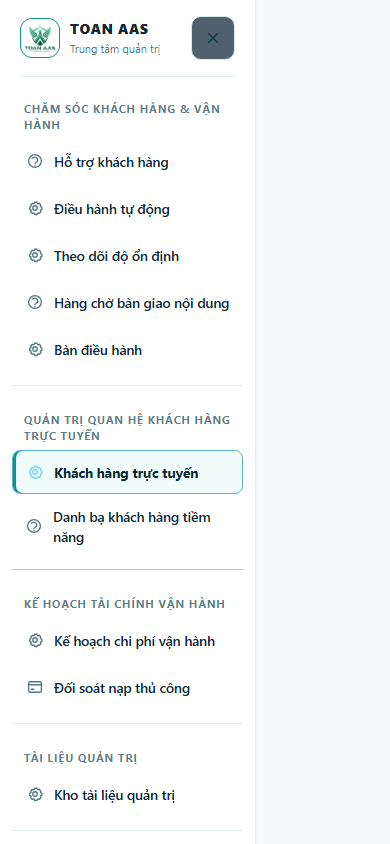
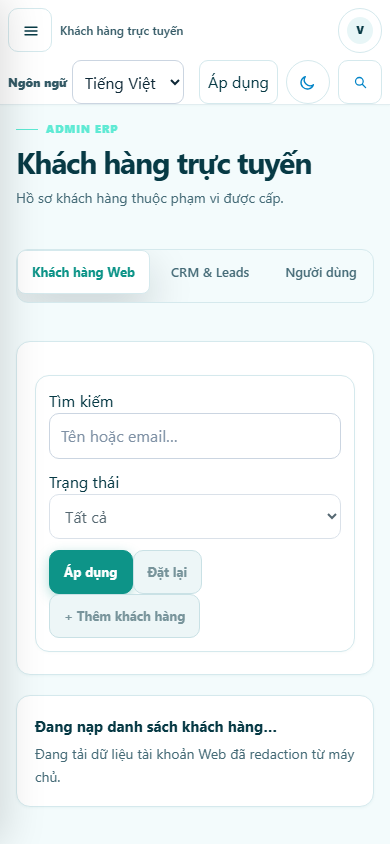
fix(web): correct admin mobile drawer off-canvas layout and screenshot evidence

diff --git a/static/portal/portal-theme.css b/static/portal/portal-theme.css
@@ -20271,6 +20271,51 @@ html:not([data-portal-theme="dark"]) .portal-auth-page--admin .portal-auth-card 
   background: #0f766e !important;
 }
 
+.portal-shell[data-portal-app-kind="admin"]:not([data-portal-theme="dark"]) .portal-button--primary {
+  background: #0d9488 !important;
+  color: #ffffff !important;
+  border: 1px solid #0d9488 !important;
+}
+
+.portal-shell[data-portal-app-kind="admin"]:not([data-portal-theme="dark"]) .portal-button--primary:hover {
+  background: #0f766e !important;
+  border-color: #0f766e !important;
+}
+
+@media (max-width: 980px) {
+  .portal-shell[data-portal-app-kind="admin"] {
+    display: block !important;
+  }
+
+  .portal-shell[data-portal-app-kind="admin"] .portal-sidebar {
+    position: fixed !important;
+    z-index: 100 !important;
+    top: 0 !important;
+    left: 0 !important;
+    width: min(290px, calc(100vw - 46px)) !important;
+    height: 100vh !important;
+    height: 100dvh !important;
+    padding-top: calc(20px + var(--portal-safe-top)) !important;
+    padding-bottom: calc(16px + var(--portal-safe-bottom)) !important;
+    transform: translateX(-105%) !important;
+    transition: transform .2s ease !important;
+    box-shadow: 18px 0 40px rgba(0, 0, 0, .15) !important;
+  }
+
+  .portal-shell[data-portal-app-kind="admin"] .portal-sidebar.is-open {
+    transform: translateX(0) !important;
+  }
+
+  .portal-shell[data-portal-app-kind="admin"] .portal-workspace {
+    min-width: 0 !important;
+    width: 100% !important;
+  }
+
+  .portal-shell[data-portal-app-kind="admin"] .portal-header {
+    width: 100% !important;
+  }
+}
+
 .portal-shell[data-portal-app-kind="admin"] .portal-nav-group--flat {
   display: grid;
   gap: 2px;

diff --git a/tests/test_p0_admin_ui_visual_reset_light_teal_contracts.py b/tests/test_p0_admin_ui_visual_reset_light_teal_contracts.py
@@ -1,9 +1,10 @@
 """Contract tests for Admin UI Visual Reset to Light Modern Teal/Emerald ERP.
 
-TASK: P0.WEB.ADMIN.UI.VISUAL.RESET.LIGHT.TEAL.LIVE.ACCEPTANCE
+TASK: P0.WEB.ADMIN.UI.PR454.VISUAL.EVIDENCE.CORRECTION.GATE
 PROGRAM: P0.WEB.ERP.PRODUCTION_COMPLETION
 """
 
+import json
 from pathlib import Path
 import re
 import pytest
@@ -14,6 +15,8 @@ PORTAL_THEME_CSS = (ROOT / "static" / "portal" / "portal-theme.css").read_text(e
 PORTAL_CSS = (ROOT / "static" / "portal" / "portal.css").read_text(encoding="utf-8")
 PORTAL_JS = (ROOT / "static" / "portal" / "portal.js").read_text(encoding="utf-8")
 SERVICE_WORKER_JS = (ROOT / "static" / "portal" / "service-worker.js").read_text(encoding="utf-8")
+AFTER_MANIFEST_PATH = ROOT / "reports" / "visual_reset" / "after" / "capture_manifest.json"
+COMPUTED_COLORS_PATH = ROOT / "reports" / "visual_reset" / "after" / "computed_colors.json"
 
 
 def test_admin_ui_theme_storage_key_isolation() -> None:
@@ -88,3 +91,52 @@ def test_service_worker_skip_waiting_and_clients_claim() -> None:
     """Service worker must skip waiting and claim clients to avoid stale caches."""
     assert "self.skipWaiting()" in SERVICE_WORKER_JS
     assert "self.clients.claim()" in SERVICE_WORKER_JS
+    assert 'const CACHE_PREFIX = "toan-aas-portal-shell-";' in SERVICE_WORKER_JS
+    assert "const PRIVATE_PATH_PREFIXES" in SERVICE_WORKER_JS
+
+
+def test_admin_ui_mobile_drawer_off_canvas_rules() -> None:
+    """Admin mobile sidebar must be fixed off-canvas (-105%) and only slide in when open."""
+    assert "@media (max-width: 980px)" in PORTAL_THEME_CSS
+    assert '.portal-shell[data-portal-app-kind="admin"] .portal-sidebar' in PORTAL_THEME_CSS
+    assert "transform: translateX(-105%) !important;" in PORTAL_THEME_CSS
+    assert '.portal-shell[data-portal-app-kind="admin"] .portal-sidebar.is-open' in PORTAL_THEME_CSS
+    assert "transform: translateX(0) !important;" in PORTAL_THEME_CSS
+
+
+def test_admin_ui_mobile_screenshots_have_zero_cross_route_duplicates() -> None:
+    """All 5 mobile screenshots must have unique SHA256 hashes proving distinct route identity."""
+    if not AFTER_MANIFEST_PATH.exists():
+        pytest.skip("Manifest not generated yet")
+    manifest = json.loads(AFTER_MANIFEST_PATH.read_text(encoding="utf-8"))
+    mobile_items = [item for item in manifest if "390" in item["viewport"]]
+    assert len(mobile_items) == 5
+    hashes = [item["screenshotSha256"] for item in mobile_items]
+    assert len(set(hashes)) == 5, f"Cross-route duplicate detected in mobile screenshots: {hashes}"
+
+
+def test_admin_ui_desktop_screenshots_have_zero_cross_route_duplicates() -> None:
+    """All 5 desktop screenshots must have unique SHA256 hashes proving distinct route identity."""
+    if not AFTER_MANIFEST_PATH.exists():
+        pytest.skip("Manifest not generated yet")
+    manifest = json.loads(AFTER_MANIFEST_PATH.read_text(encoding="utf-8"))
+    desktop_items = [item for item in manifest if "1440" in item["viewport"]]
+    assert len(desktop_items) == 5
+    hashes = [item["screenshotSha256"] for item in desktop_items]
+    assert len(set(hashes)) == 5, f"Cross-route duplicate detected in desktop screenshots: {hashes}"
+
+
+def test_admin_ui_computed_colors_measured_values() -> None:
+    """Computed colors must show light teal canvas and not-applicable for routes without CTA."""
+    if not COMPUTED_COLORS_PATH.exists():
+        pytest.skip("Computed colors not generated yet")
+    colors = json.loads(COMPUTED_COLORS_PATH.read_text(encoding="utf-8"))
+    for route in ("admin_home", "admin_customers", "admin_finance", "admin_jobs"):
+        assert colors[route]["themeAttr"] == "light"
+        assert colors[route]["bodyBg"] == "rgb(243, 251, 252)"
+        assert colors[route]["sidebarBg"] == "rgb(255, 255, 255)"
+    # Finance and Jobs have no primary CTA
+    assert colors["admin_finance"]["primaryActionBg"] == "NOT_APPLICABLE"
+    assert colors["admin_jobs"]["primaryActionBg"] == "NOT_APPLICABLE"
+    # Admin login has emerald-teal primary CTA
+    assert colors["admin_login"]["primaryActionBg"] in ("rgb(13, 148, 136)", "rgb(15, 118, 110)")
